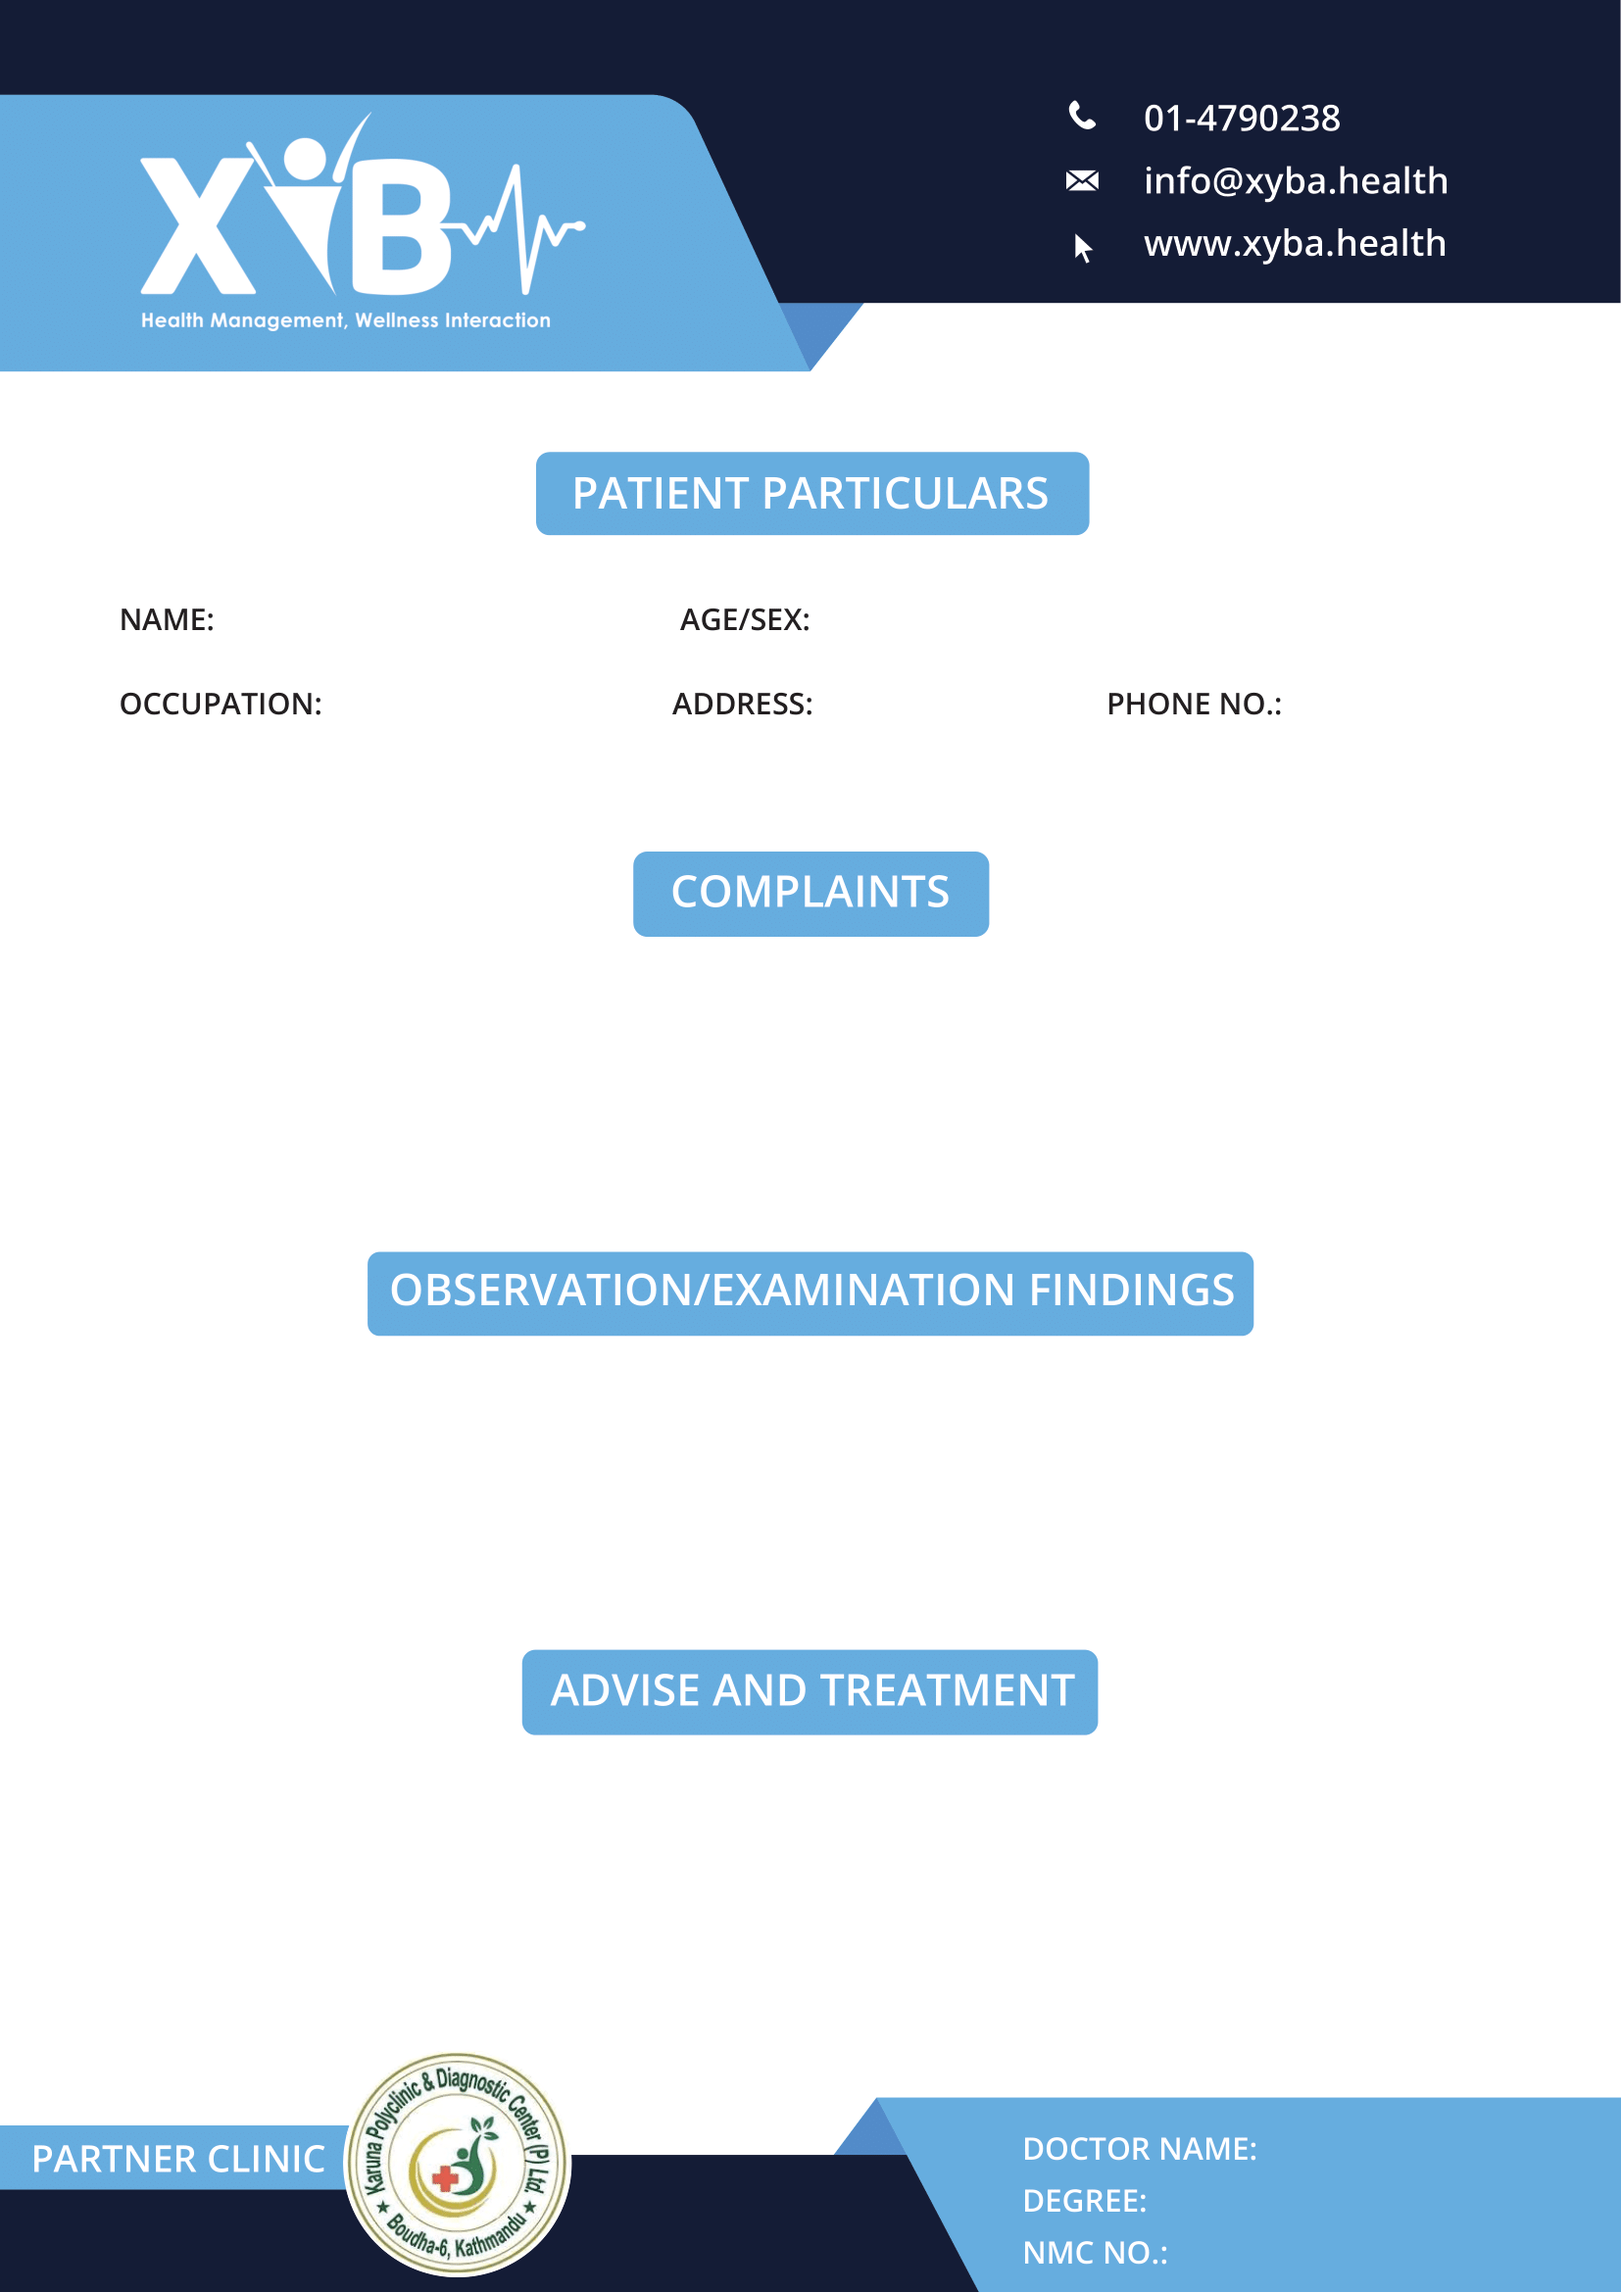
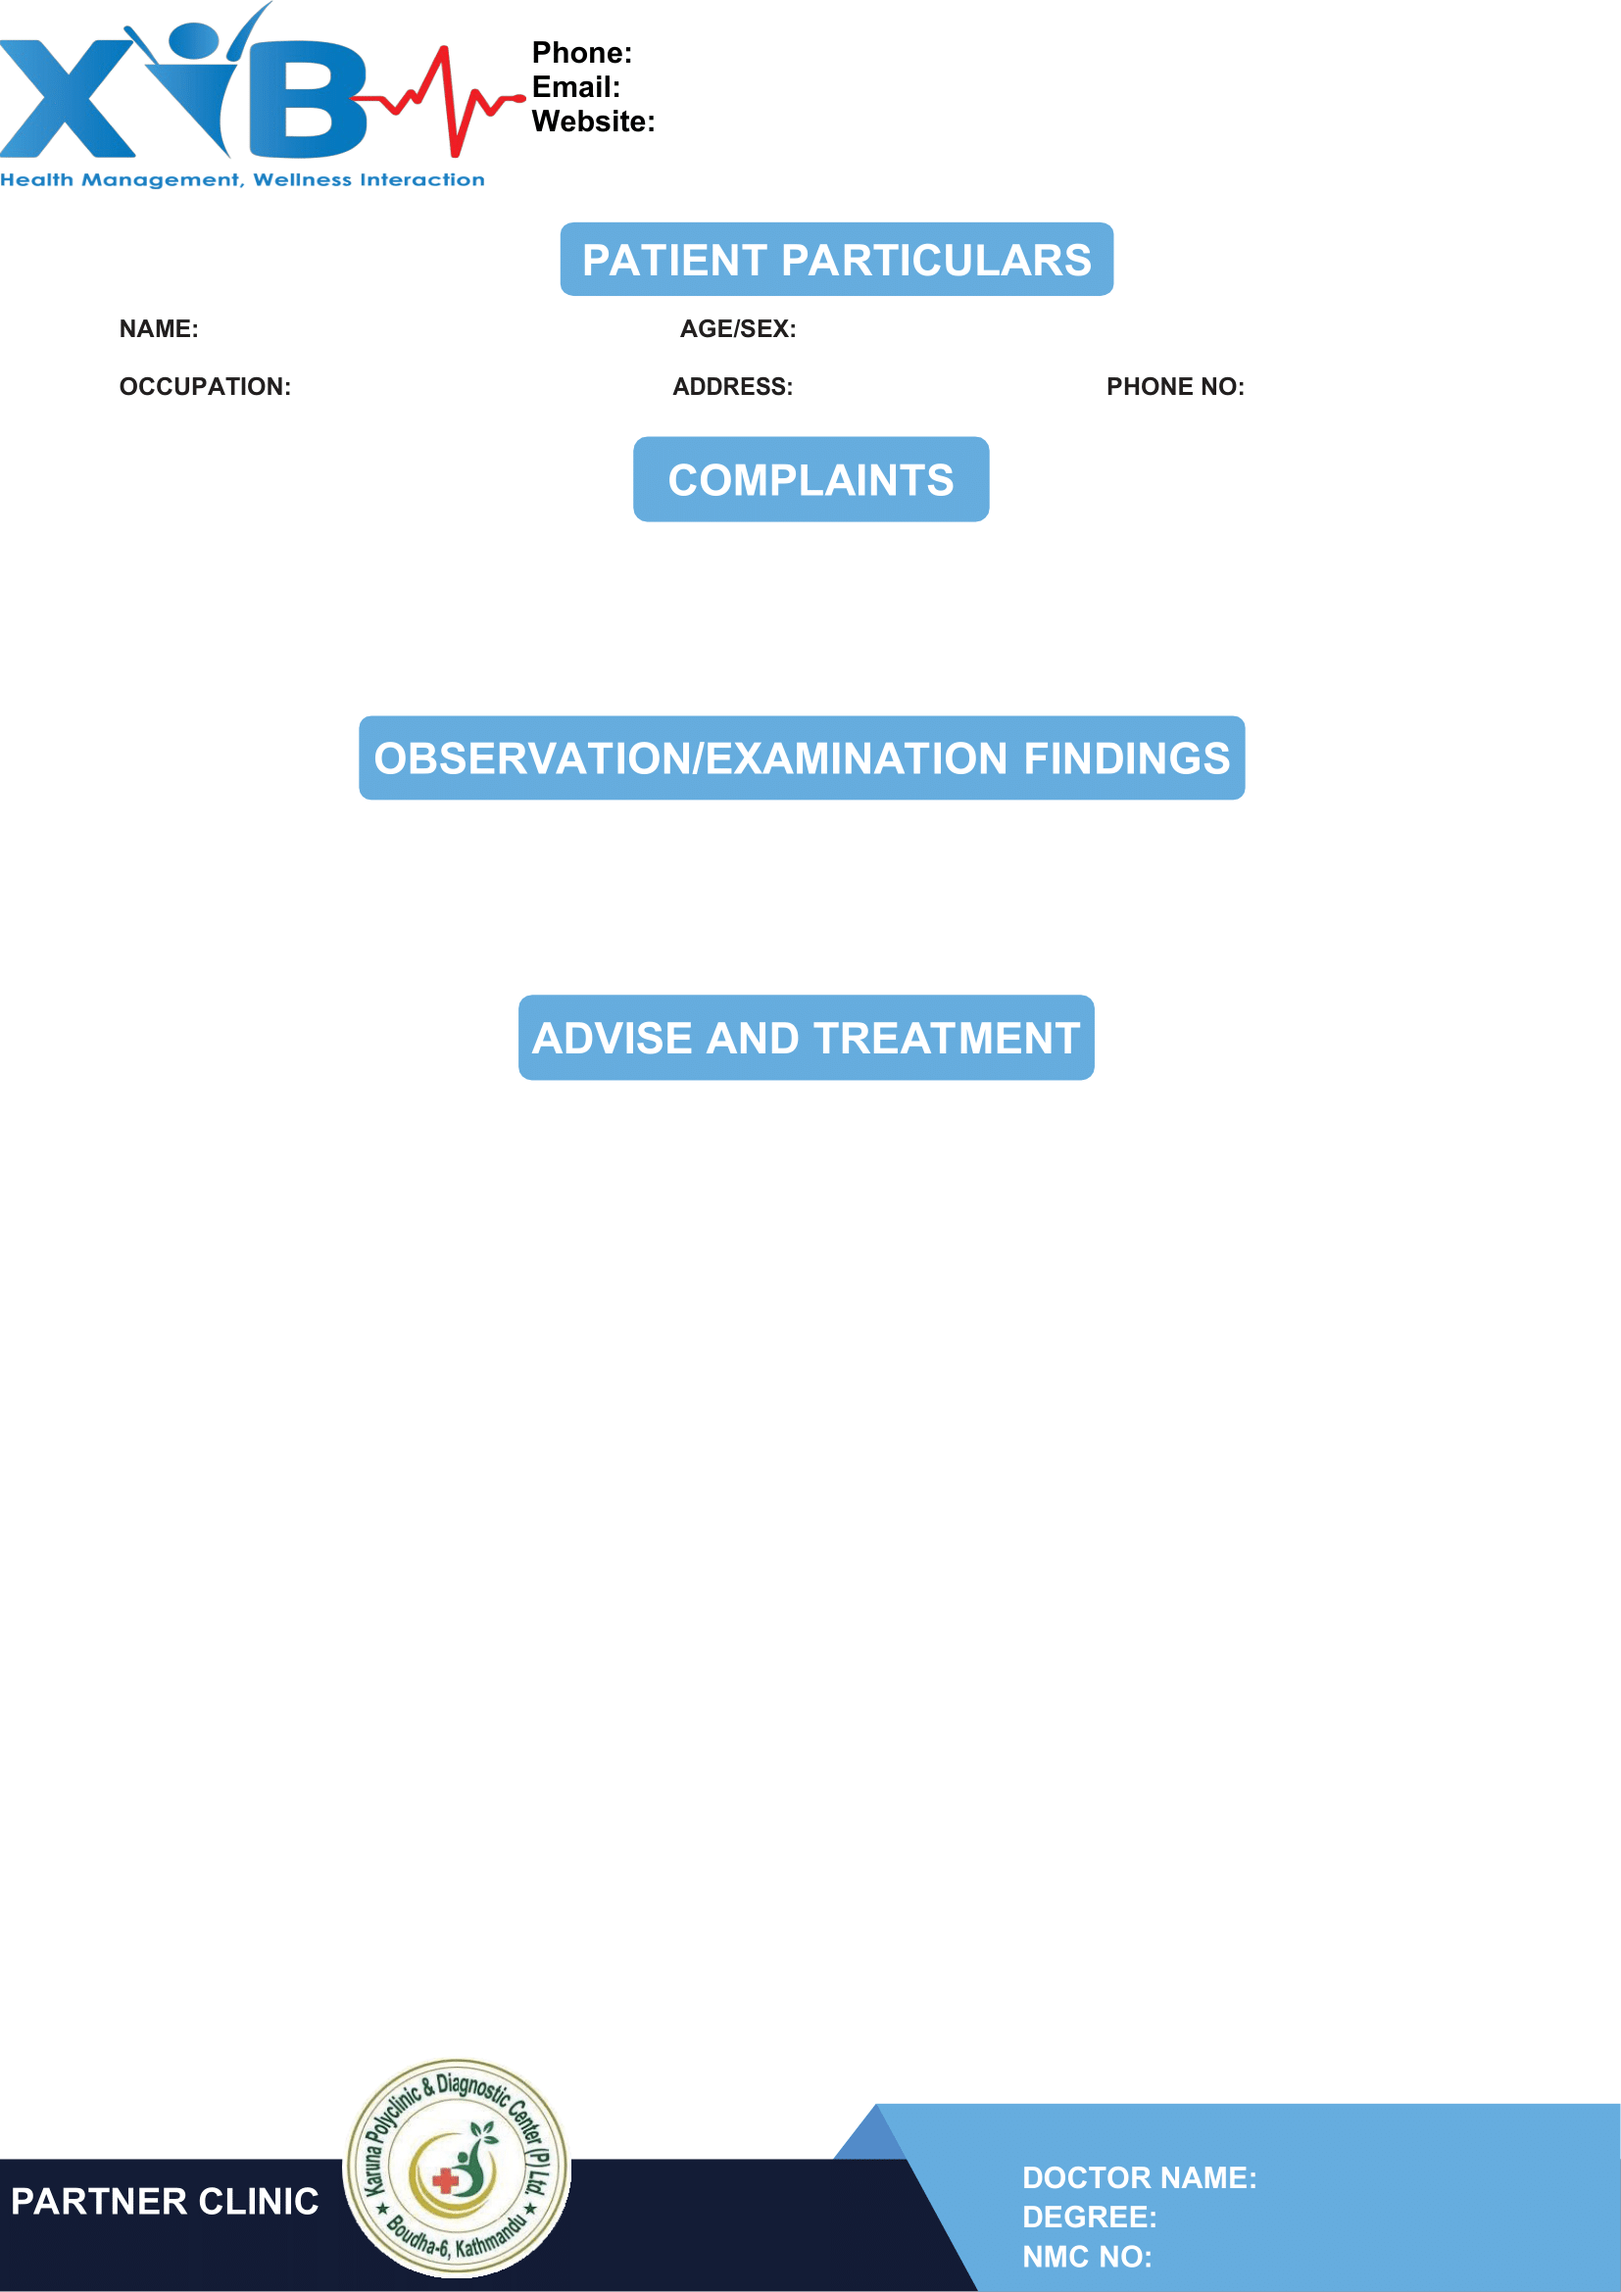
pdf page changed

diff --git a/Backend/middleware/pdfgenerator/pdfGenerator.js b/Backend/middleware/pdfgenerator/pdfGenerator.js
@@ -46,18 +46,25 @@ async function generatePdfFunction(
     height: 720,
   });
 
-  doc.fontSize(10).text(patient["patientName"], 90, 192);
-  doc.fontSize(10).text(patient["age"], 315, 193); //+textData["prescription"]["patientName"]
-  doc.fontSize(10).text("/  " + patient["gender"], 363, 193); //+textData["prescription"]["Ward"]
-  doc.fontSize(10).text(patient["occupation"], 130, 219); //+textData["prescription"]["dob"]
-  doc.fontSize(10).text(patient["address"], 317, 218); //+textData["prescription"]["gender"]
-  doc.fontSize(10).text(patient["phoneNumber"], 490, 218); //+textData["prescription"]["bedNo"]
-  doc.fontSize(10).text("         " + prescription["complaints"], 10, 300); //+textData["prescription"]["inPatientNo"]
-  doc.fontSize(10).text("         " + prescription["observation"], 10, 433); //+textData["prescription"]["unit"]
-  doc.fontSize(10).text("         " + prescription["advise"], 10, 549); //+textData["prescription"]["consultant"]
-  doc.fontSize(8).text(fullName, 483, 674); //+textData["prescription"]["diagnosis"]
-  doc.fontSize(8).text(MBBS, 440, 690); //+textData["prescription"]["chiefComplaint"]
-  doc.fontSize(8).text(NMC_number, 448, 706); //+textData["prescription"]["historyOfPresentIllness"]
+  doc.fontSize(10).text("01-4790238", 247, 13);
+  doc.fontSize(10).text("info@xyba.health", 245, 23, {
+    link: "https://mail.google.com/mail/u/0/#inbox?compose=CllgCJlKnfhbHZMDCtMLclrNWWvfffShLXfHrgXfpsLpZZjvdjhRnlZHbcDWbFFPlVcqwjTbkWL",
+  });
+  doc.fontSize(10).text("xyba.health", 255, 35, {
+    link: "https://xyba.health",
+  });
+  doc.fontSize(10).text(patient["patientName"], 85, 100);
+  doc.fontSize(10).text(patient["age"], 315, 100); //+textData["prescription"]["patientName"]
+  doc.fontSize(10).text("/  " + patient["gender"], 363, 100); //+textData["prescription"]["Ward"]
+  doc.fontSize(10).text(patient["occupation"], 120, 120); //+textData["prescription"]["dob"]
+  doc.fontSize(10).text(patient["address"], 317, 118); //+textData["prescription"]["gender"]
+  doc.fontSize(10).text(patient["phoneNumber"], 485, 120); //+textData["prescription"]["bedNo"]
+  doc.fontSize(10).text("         " + prescription["complaints"], 10, 170); //+textData["prescription"]["inPatientNo"]
+  doc.fontSize(10).text("         " + prescription["observation"], 10, 260); //+textData["prescription"]["unit"]
+  doc.fontSize(10).text("         " + prescription["advise"], 10, 350); //+textData["prescription"]["advise"]
+  doc.fontSize(8).text(fullName, 483, 683); //+textData["prescription"]["diagnosis"]
+  doc.fontSize(8).text(MBBS, 445, 695); //+textData["prescription"]["chiefComplaint"]
+  doc.fontSize(8).text(NMC_number, 448, 708); //+textData["prescription"]["historyOfPresentIllness"]
   // Add an image, constrain it to a given size, and center it vertically and horizontally
 
   // Add another page

diff --git a/Frontend/src/pages/HomePage/components/SearchBar/SearchBar.js b/Frontend/src/pages/HomePage/components/SearchBar/SearchBar.js
@@ -10,25 +10,35 @@ const SearchBar = (props) => {
   const [filteredData, setFilteredData] = useState([]);
 
   const excludeColums = [
-    '_id',
-    'fee',
-    'password',
-    'token',
-    'dob',
-    'gender',
-    'address',
-    'contactNumber',
-    'emailId',
-    'role',
-    'educationBackground',
-    'NMC_number',
-    'affiliated_hospital',
-    'created_by_admin',
-    'profilePhotoLink',
-    'coverPhotoLink',
-    'videoList',
-    'available_dates',
-    'doctorId',
+    "_id",
+    "fee",
+    "password",
+    "token",
+    "dob",
+    "gender",
+    "address",
+    "contactNumber",
+    "emailId",
+    "role",
+    "Affilation",
+    "NMC_number",
+    "Approped",
+    "AppropedBy",
+    "DM_MCH",
+    "DmMchCollege",
+    "DmMchFile",
+    "MBBS",
+    "MBBSFile",
+    "MD_MS",
+    "MdMsCollege",
+    "MdMsFile",
+    "NMC_number",
+    "NmcFiles",
+    "Photo",
+    "available_dates",
+    "contactNumber",
+    "doctorSinId",
+    "email",
   ];
 
   const handleFilter = (value) => {

diff --git a/Frontend/src/pages/HomePage/HomePage.js b/Frontend/src/pages/HomePage/HomePage.js
@@ -19,7 +19,7 @@ const HomePage = () => {
         .then((receivedData) => setAllDoctorLis(receivedData.data));
     };
     getAllDoctorList();
-  }, []);
+  }, [allDoctorList]);
   return (
     <Page title="Xyba.health">
       <FrontPageLayout />
